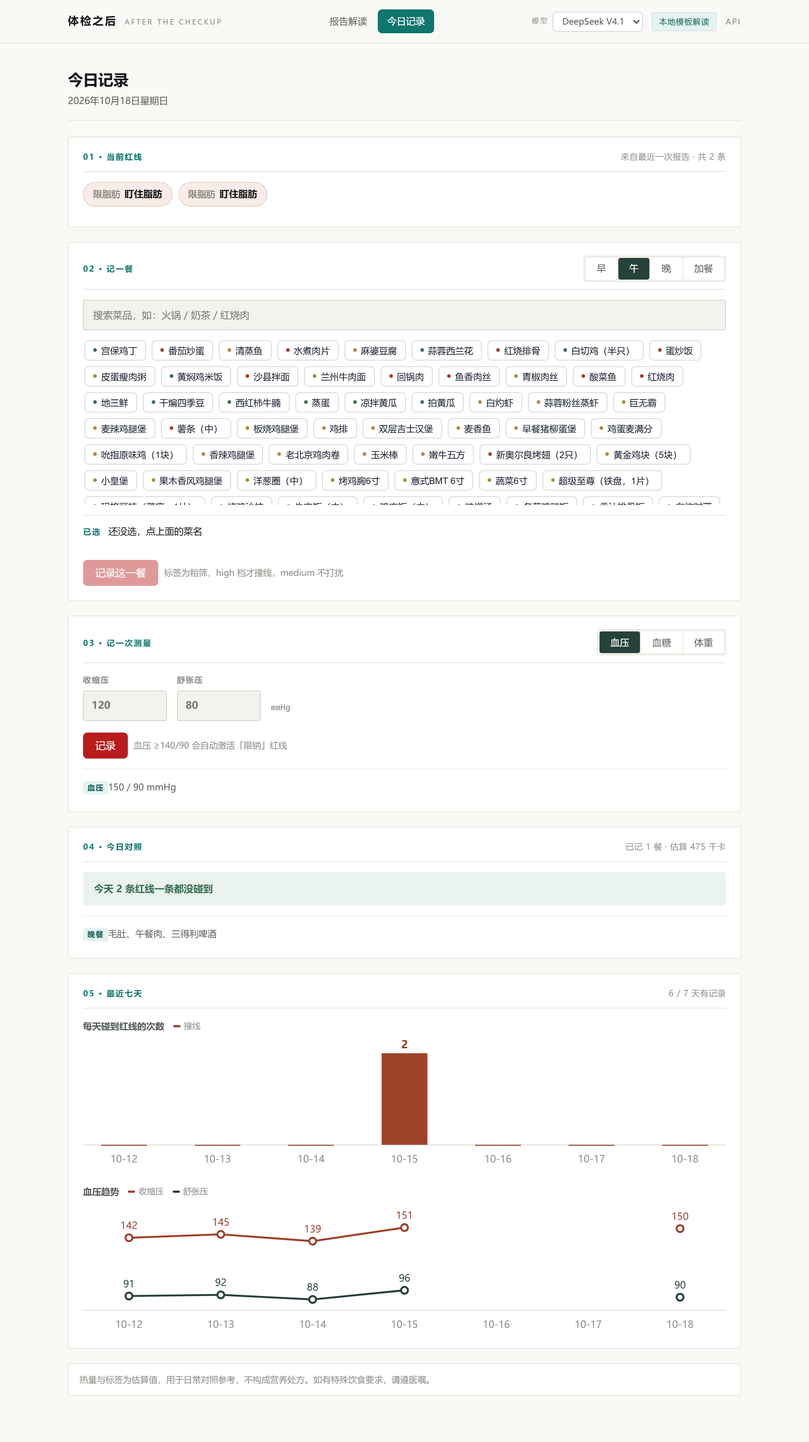
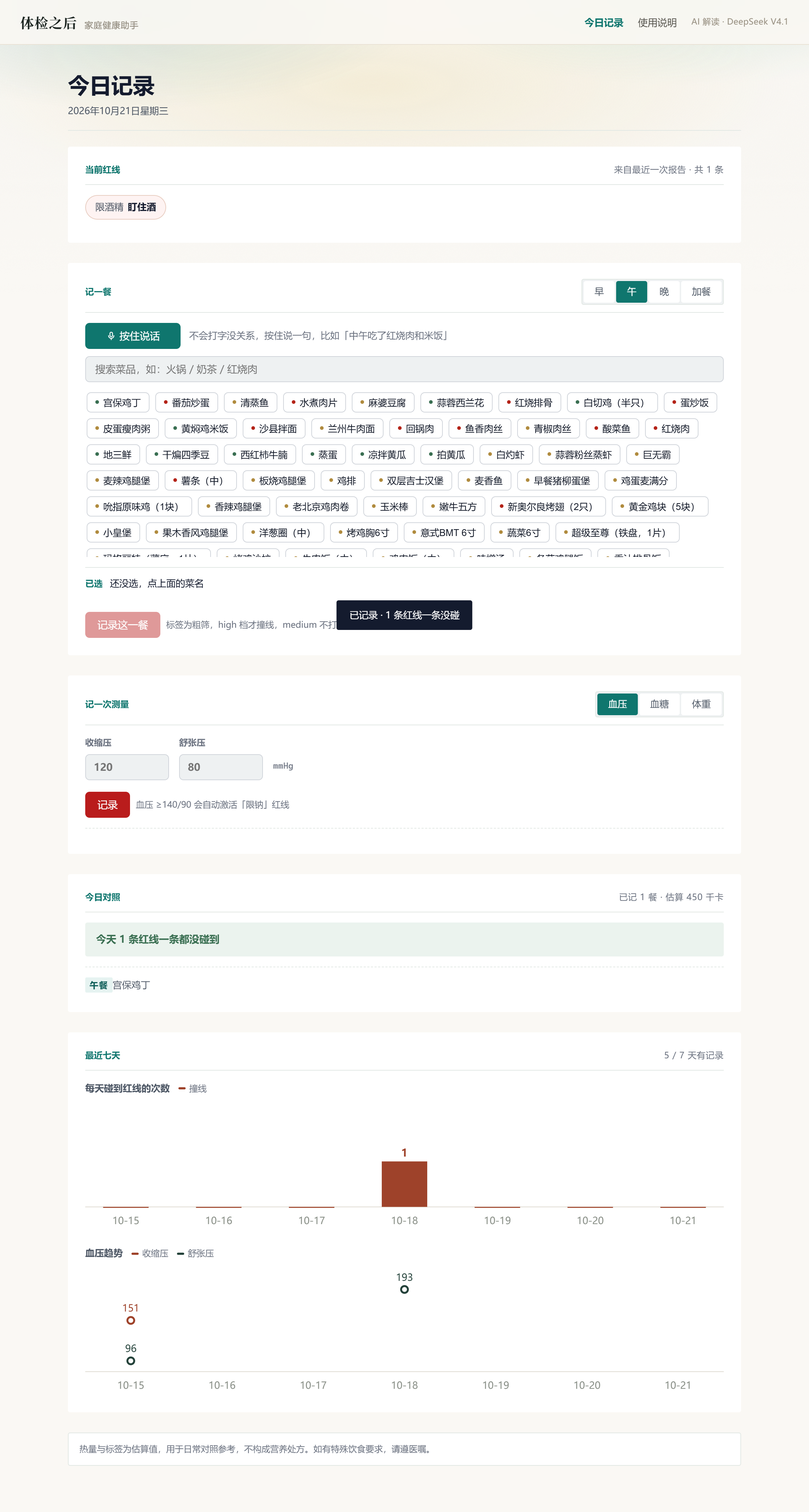
docs(repro): 修复README矛盾并验证干净环境复现
README 与真实实现有 7 处不一致，逐条修；另补 1 处会卡住评委的启动脚本、
1 处缺依赖。红线阈值、指标字典、判定逻辑一行未动。

一、事实错误（README）
  1. 顶部还写「Day 1 · 选题已定，尚未动工 / 本 README 是立项版」
     → 与已完成的三层架构直接冲突。改为当前状态（2026-10-21 全链路落地，
       距提交 28 天，剩余工作只有录视频）。
  2. 「明确不做」表里写「不做跨年多份报告对比」，但第七、九章和 app/history.py
     都写着已实现 → 删掉那行，改成诚实的边界：做了「新报告 vs 上一份」的两两对比
     （五种判定），没做跨多年批量统计、也不比原始数值（各单位/区间口径不同）。
  3. 「端到端验收链路」标 TODO(Day 15) → 改为已跑通，并列出三条对应的自动化验证
     （test_e2e 177 项 / real_bench 8 张图 / redline_bench 27 用例）。
  4. 互相打架的状态：功能表里「勾选菜品即时撞线」标 [ ]，但日常层早已上线
     → 改 [x]；「导出图片 / PDF」标 [ ]，但「保存成图片」已实现 → 拆成两行
     （图片 [x]、PDF [ ]）。
  5. 数字对不上：schemas 写「19 个模型」实测 17 个业务模型 + 1 个 _Strict 基类；
     test_rules 写「41 项断言」实际 54；红线写「10-15 条」实际 16；
     字典写「目标约 120」实际 80；菜品库写「目标 60-100」实际 316；提交数 36。
  6. 「5 份真实报告全部命中并触发红线」与 real_report.json 不符
     → 实为 6 份全部命中，其中 3 份触发红线。
  7. 项目结构树缺 chat.py / provider.py / env_loader.py / 四个新测试 / 新文档
     → 按实际文件重列；同时修掉「三大知识库库」错字（它把锚点链接写坏了）。
  另：截图说明声称「真实运行结果」，但三张图是 10-18 的旧界面（还挂着已删除的
  「模型」下拉框）→ 用当前界面重拍 home / result / daily（同尺寸 2240×1800）。

二、启动说明（原来只有开发者自己能用）
  · 四步启动里写死 D:/aconda3/envs/hwh_ml/python.exe → 改成 python / venv 写法，
    并说明「装依赖与启动必须用同一个 Python」这个最常见的坑。
  · 前置条件原来要求「一个 OCR 服务 Key」→ 与默认本地 RapidOCR 不符。
    改为：Python 3.11+ / 网络仅首次装依赖需要 / DeepSeek Key 可选 /
    OCR Key 不需要；一句话结论「没 Key 也能跑完整个流程」。
  · 3.3 环境坑里「OpenCV 中文路径」那条的对策（cv2.imencode）已不成立——
    本项目自己不碰 cv2 了。改成真实情况：坑还在（rapidocr 内部用 cv2），
    但上传走 tempfile 的 ASCII 名已经绕开；%TEMP% 含中文仍有风险且未实测。

三、启动脚本（会直接卡住评委，属最小修复）
[…]

diff --git a/README.md b/README.md
@@ -4,9 +4,11 @@
 
 > **体检只占一年中的一天，剩下 364 天才是这个产品的地盘。**
 
-> ⏳ **当前状态（Day 1 · 2026-10-15）：选题已定，尚未动工。**
-> 本 README 是立项版，主体内容是已锁定的技术决策与开发计划，**将随开发逐日替换为真实产出**。
-> 距省赛作品提交（2026-11-18）**34 天**。
+> ✅ **当前状态（2026-10-21）：三层架构全部落地，本机可跑通全链路。**
+> 档案层（报告 → OCR → 字典归一 → 本地判定 → 红线）、日常层（点选记餐 / 测量记录 →
+> 对照红线 → 周报）、表达层（默认模板模式，配 Key 自动升级大模型）均已上线；
+> 真实报告实测与红线逐条对照见 [docs/有效性证据.md](docs/有效性证据.md)。
+> 距省赛作品提交（2026-11-18）**28 天**，剩余工作只有演示视频录制与材料整理。
 
 ---
 
@@ -15,6 +17,7 @@
 | 你想做什么 | 去哪 |
 |---|---|
 | 10 分钟跑起来 | [第三章｜Quick Start](#三10-分钟跑起来) |
+| 查「你说的准不准」 | [docs/有效性证据.md](docs/有效性证据.md)（OCR 实测 + 红线逐条对照 + 复现命令 + 局限） |
 | 查评分维度的证据 | [第九章｜评审证据索引](#九评审证据索引) |
 | 看懂设计取舍 | [第五章｜架构](#五架构设计) + [第六章｜知识库](#六三大知识库) |
 
@@ -34,7 +37,8 @@
 
 ![今日记录](docs/screenshots/daily.png)
 
-> 截图为演示模式（`/api/demo` 现场合成的报告）的真实运行结果，非设计稿。
+> 截图为演示模式（`/api/demo` 现场合成的报告）的真实运行结果，非设计稿，
+> 2026-10-21 随当前界面重新截取。
 
 ```
 上传体检报告  →  抽出「你的三条红线」  →  每天勾一下吃了什么  →  今天碰了几条线
@@ -44,8 +48,8 @@
 |---|---|
 | 主界面：上传 + 解读结果（红线卡片 / 问诊清单 / 给爸妈的话） | `[x]` 已上线（见上方截图） |
 | 处理过程：七阶段进度 + 思考过程可视化 | `[x]` 已上线 |
-| 勾选菜品 → 即时显示碰了几条红线（动图） | `[ ]` 日常层开发后补 |
-| 演示视频（5-8 分钟） | `[ ]` 脚本已就位，见 `docs/演示视频脚本.md` |
+| 今日记录：勾选菜品 → 即时显示碰了几条红线 | `[x]` 已上线（每日对照 + 周报，见第三张截图） |
+| 演示视频（5-8 分钟） | `[ ]` 未录制，脚本已就位：`docs/演示视频脚本.md` |
 
 ---
 
@@ -85,9 +89,20 @@
 | **不做药物推荐、不做补剂建议** | 医学合规红线，主动砍掉 |
 | 甲状腺相关指标不做饮食映射 | 碘的边界容易踩雷，直接转为问诊提示清单 |
 | 不做用户认证 | 本地单机场景，用一张 `members` 表 + 页面切换即可，无需账号体系 |
-| 不做跨年多份报告对比 | 日常数据本身就是高频趋势，不必等一年 |
+| 不做多份报告的批量趋势统计 | 只做「新报告 vs 上一份」的两两对比（五种判定），不做跨多年折线、不做均值/斜率之类的统计。原因见下 |
 
 > 把报告翻成人话的项目已经不少。**这个项目的工程诚实，体现在它知道在哪里停下来。**
+
+**关于「多份报告对比」的边界说明**（本节原先有一条「不做跨年对比」，
+后来做掉了，那一行已删除——留着会和第七、九章打架）：
+
+- **做了**：每次保存新报告时，与**上一份**就地对比，输出 好转 / 加重 / 持续异常 /
+  方向反转 / 新增 五种判定，全部本地计算，口径与红线一致（`app/history.py`）。
+  为什么是「就地对比」而不是「事后随时比」：保存的这一刻正好是「新报告已确认、
+  旧报告未被覆盖」的唯一时机，错过就要靠额外快照。
+- **没做**：跨多年、多份的批量趋势统计（折线、均值、斜率）；也不对比原始数值，
+  只对比判定结果——两次的参考区间可能来自不同医院、单位和印刷值，
+  直接比数值会得出错误结论。
 
 ---
 
@@ -95,39 +110,62 @@
 
 ### 3.1 前置条件
 
-- Windows + Git Bash
-- conda Python **3.11.15**（已实测）
-- 一个 DeepSeek API Key
-- 一个 OCR 服务 Key（选型评测后确定，见 [第六章](#六三大知识库)）
+| 项 | 要求 | 说明 |
+|---|---|---|
+| 系统 | Windows / macOS / Linux | Windows 有双击启动脚本，最省事 |
+| Python | **3.11+**（本项目在 3.11.15 实测） | 3.12 / 3.13 未实测，见 3.5 |
+| 网络 | **首次装依赖需要** | 装完之后 OCR（本地 RapidOCR）与判定全部离线可跑 |
+| 大模型 Key | **可选** | 不填就是模板模式，产品完整可用；填了自动升级为大模型模式 |
+| OCR Key | **不需要** | 默认用本地 RapidOCR（`rapidocr-onnxruntime`），零 Key、零联网 |
 
-### 3.2 四步启动
+> **一句话**：`pip install -r requirements.txt` + 双击 `启动.bat`，没有 Key 也能跑完整个流程。
 
-> **Windows 用户更省事的办法**：仓库根目录有个 **`启动.bat`**，**双击即可**——
-> 它会自动启动服务并打开浏览器，不用敲任何命令。要停止就直接关掉那个黑窗口。
->
-> 下面四步是手动方式，供 macOS / Linux 用户或有自定义需求时使用。
+### 3.2 启动（两种方式，任选其一）
+
+#### 方式 A：Windows 双击（最简单，推荐评委用这个）
+
+仓库根目录的 **`启动.bat`**，**双击即可**：自动找 Python、启动服务、
+等服务就绪后自动打开浏览器。要停止就直接关掉那个黑窗口。
+
+> 脚本会依次尝试：`%PY%` 环境变量（可选，指向你想用的 python.exe）→ `PATH` 里的 `python`。
+> 找不到 Python 时打印明确提示后 `pause`，不会一闪而过；
+> 找到了但缺依赖时，会**自动执行** `pip install -r requirements.txt` 再启动。
+> 用 conda / venv 的话，先 `conda activate 环境名`（或 `.venv\Scripts\activate`）再双击。
+
+#### 方式 B：命令行四步（macOS / Linux 或有自定义需求时）
 
 ```bash
 # 1. 克隆
 git clone https://github.com/hoanhkhai1hk-wq/chuanzhibei.git
 cd chuanzhibei
 
-# 2. 安装依赖
-D:/aconda3/envs/hwh_ml/python.exe -m pip install -r requirements.txt
+# 2. 建一个独立环境（推荐，避免装进系统 Python）
+python -m venv .venv
+source .venv/bin/activate          # Windows 用: .venv\Scripts\activate
 
-# 3. 配置环境变量
-copy .env.example .env          # Windows
-# cp .env.example .env          # macOS / Linux
-# 然后填入 DEEPSEEK_API_KEY
+# 3. 安装依赖
+pip install -r requirements.txt
 
 # 4. 启动
-D:/aconda3/envs/hwh_ml/python.exe -m uvicorn app.main:app --reload --port 8000
+python -m uvicorn app.main:app --port 8000
 ```
 
 打开 `http://127.0.0.1:8000`，交互 API 文档在 `/docs`。
 
-> ⚠ **为什么要写 Python 绝对路径**：本机存在多个 Python 环境（conda `hwh_ml`、`myenv`、托管 Python 3.13），
-> 直接写 `python` 极易装到空环境里。**请按你的实际环境路径替换。**
+> **不想建 venv** 就直接把第 2 步的 `python` 换成你自己的解释器路径，例如
+> `D:/aconda3/envs/你的环境/python.exe -m pip install -r requirements.txt`。
+> 只要求「装依赖」和「启动服务」用的是**同一个** Python——
+> 用 A 的 pip 装、用 B 的 python 跑，是最常见的一类「装完了却 import 不到」。
+
+#### 想接大模型（可选）
+
+```bash
+cp .env.example .env        # Windows: copy .env.example .env
+# 然后在 .env 里填 DEEPSEEK_API_KEY
+```
+
+不填也能跑：模板模式下逐项解释来自字典的 `explain_high/low` 字段，
+问诊清单与「给爸妈说的话」由本地规则生成。界面上会如实显示「本地模板解读」。
 
 ### 3.3 本机环境坑（已实测，复现时先看这里）
 
@@ -135,37 +173,50 @@ D:/aconda3/envs/hwh_ml/python.exe -m uvicorn app.main:app --reload --port 8000
 |---|---|
 | 本机有 HTTP 代理，访问 127.0.0.1 会被拦截返回 502 | `curl` 必须加 `--noproxy '*'`；浏览器给 localhost 加代理例外 |
 | 用 `&` 起的后台进程会被回收 | 长驻服务需用后台任务方式运行，不要用 `&` |
-| OpenCV 不支持中文路径且**静默失败** | 写盘改用 `cv2.imencode` + Python `open(path,'wb')` |
+| 中文路径 + OpenCV | 本项目自己的读写走 `pathlib` + `PIL`，不碰 OpenCV；但默认 OCR 引擎 rapidocr 内部用 `cv2` 读图，而 `cv2.imread` 对中文路径**静默返回 None**。上传的临时文件由 `tempfile` 生成 ASCII 名，已绕开这个坑；若系统 `%TEMP%` 目录本身含中文，仍有风险（**未实测**） |
 
-### 3.4 端到端验收链路
+### 3.4 端到端验收链路（已跑通，非 TODO）
 
-`[ ]` **TODO(Day 15)** —— 这条链路同时也是「端到端丑链路」的验收标准，Day 1 先把标准钉死：
+`[x]` 已在 2026-10-21 用**干净环境复现**（全新 clone + 独立 Python 3.11 venv +
+无 Key 模板模式），完整走通下面这条链路：
 
 ```
 上传一份体检报告 → 取回异常项 JSON  → 生成「你的三条红线」
                 → 记一顿饭（勾选菜品）→ 取回今日「碰了几条红线」
 ```
 
+对应的自动化验证：
+
+| 验证 | 命令 | 规模 |
+|---|---|---|
+| 端到端链路（图 → OCR → 判定 → 红线） | `python tests/test_e2e.py` | 12 份合成样本 / 177 项断言 |
+| 真实报告实测 | `python tests/real_bench.py` | 8 张真实图 / 命中 61-66 行 = 92% |
+| 16 条红线规则逐条对照 | `python tests/redline_bench.py` | 27 条用例 / 293 项断言 |
+
+明细与口径见 [docs/有效性证据.md](docs/有效性证据.md)。
+
 ### 3.5 当前已完成的部分
 
 - `[x]` 选题与技术栈已锁定
 - `[x]` Python 环境与依赖清单已实测核验（见 `requirements.txt`）
-- `[x]` `app/schemas.py` 数据契约已落地：19 个模型，已通过导入验证与架构铁律自检
+- `[x]` `app/schemas.py` 数据契约已落地：17 个业务模型（另有 1 个 `_Strict` 基类
+  统一开启 `extra="forbid"`），已通过导入验证与架构铁律自检
 - `[x]` FastAPI 骨架可启动：`/health`、`/docs`、`/api/contract/sample` 已实测可用
 - `[x]` 指标字典 **80** 条 + 红线规则 16 条，含交叉引用校验
 - `[x]` **端到端链路已跑通**：图片 → OCR → 脱敏 → 解析 → 本地判定 → 红线
   （12 份合成样本验证，字典命中率 100%，触发 12 条红线）
 - `[x]` **真实报告实测已完成**：8 张真实报告图跑完整链路。
   首轮命中率只有 **15%**（合成样本的 100% 是开卷考试），定位到五个真实版式问题
-  并逐个修复后升到 **92%**，判定可用率 100%；其中 5 份真实报告的指标行
-  **全部命中、全部可判定，并实际触发日常红线**。
+  并逐个修复后升到 **92%**，判定可用率 100%；其中 6 份真实报告的指标行
+  **全部命中、全部可判定**，这 6 份里有 3 份实际触发了日常红线。
   最大的一个坑是照片方向——曾被误诊为"双栏排版跨栏读取"，
   实为旋转后 OCR 串不成行（详见文档第二节的误诊记录）。
 - `[x]` **定性指标判定修复**：「阴性（-）」——中国检验报告上最常见的定性写法——
   此前会被判成「待确认」，而「阳性（+）」却能正确识别（两边不对称）。
   现按括号内的符号优先判定，并支持半定量写法（尿蛋白 `2+`、`±`）。
   完整过程、数据表与仍未解决的短板见
-  [tests/ocr_bench/results/真实样本实测.md](docs/真实样本实测.md)
+  [docs/真实样本实测.md](docs/真实样本实测.md)（逐文件明细与统计口径另见
+  [docs/有效性证据.md](docs/有效性证据.md)）。
 - `[x]` **表达层已落地（模板模式）**：无 API Key 也完整可用——逐项解释来自指标
   字典的 `explain_high/low` 字段，问诊清单与「给爸妈说的话」由本地规则生成。
   配置 `DEEPSEEK_API_KEY` 后自动升级为大模型模式，输出须经**数字回溯校验**
@@ -203,10 +254,12 @@ D:/aconda3/envs/hwh_ml/python.exe -m uvicorn app.main:app --reload --port 8000
 .
 ├── app/
 │   ├── main.py              # [x] FastAPI 入口：extract → analyze → explain 三段式 + SSE 流式
-│   ├── schemas.py           # [x] Pydantic 数据契约（含 is_likely_normal / disclaimer）
+│   ├── schemas.py           # [x] Pydantic 数据契约（17 个业务模型 + _Strict 基类）
 │   ├── pipeline.py          # [x] 端到端链路：图片 → 脱敏 → 解析 → 红线
+│   ├── history.py           # [x] 多报告趋势对比（好转/加重/持续/反转/新增）
+│   ├── env_loader.py        # [x] 把 .env 灌进 os.environ（只补不盖，缺文件不报错）
 │   ├── ocr/
-│   │   ├── engine.py        # [x] OCR 适配层（rapidocr 默认，可换 paddle / baidu）
+│   │   ├── engine.py        # [x] OCR 适配层（rapidocr 默认；paddle / baidu 可选）
 │   │   └── parser.py        # [x] 文本 → 四元组
 │   ├── dict/
 │   │   ├── markers.json     # [x] 指标字典 80 条（血常规/肝肾/血脂/电解质/甲功/尿常规/心肌酶）
@@ -218,26 +271,38 @@ D:/aconda3/envs/hwh_ml/python.exe -m uvicorn app.main:app --reload --port 8000
 │   │   └── engine.py        # [x] 本地判定引擎（不调用大模型）
 │   ├── daily/
 │   │   └── service.py       # [x] 日常层：点选菜品 → 本地累加 → 红线撞线
-│   ├── history.py           # [x] 多报告趋势对比（好转/加重/持续/反转/新增）
 │   ├── data/
 │   │   └── db.py            # [x] SQLite 落库（stdlib，WAL，零 ORM）
 │   └── llm/
-│       └── explainer.py     # [x] 表达层：模板模式（无 Key 可用）+ 大模型模式 + 数字回溯校验
+│       ├── provider.py      # [x] 唯一模型出口 call_llm + 异常归类 + 超时
+│       ├── explainer.py     # [x] 模板模式 + 大模型模式 + 数字回溯校验 + 降级
+│       └── chat.py          # [x] 问问 AI：本地事实清单前置 + 同一个校验器
 ├── static/
 │   ├── index.html           # [x] 前端单页（零构建、零 CDN）
-│   ├── style.css            # [x] 设计系统
+│   ├── style.css            # [x] 设计系统（--btn-h / --btn-r / --btn-gap 令牌）
 │   └── app.js               # [x] 阶段进度 + SSE 流式渲染 + 今日记录 Tab
 ├── data/                    # SQLite 单文件（已 gitignore：健康数据不入 git）
 ├── docs/
-│   └── prompt-log/          # ≥3 段核心 Prompt 链快照
-├── 参考数据/                 # MIT 种子表（见第十一章）
+│   ├── 有效性证据.md         # [x] OCR 实测 + 红线逐条对照 + 复现命令 + 局限
+│   ├── 真实样本实测.md       # [x] 15% → 92% 的完整过程（含一次误诊记录）
+│   ├── 演示视频脚本.md       # [x] 12 段分镜（视频未录制）
+│   ├── 真实体检单怎么用.md   # [x] 拿到一份真实报告该怎么核对
+│   └── prompt-log/          # [x] 3 段核心 Prompt 链快照
+├── 参考数据/                 # [x] MIT 种子表（见第十一章）
+├── 启动.bat                  # [x] Windows 双击启动（自动找 Python）
 └── tests/
-    ├── test_rules.py        # [x] 规则引擎 41 项断言
+    ├── test_rules.py        # [x] 规则引擎 54 项断言
     ├── test_e2e.py          # [x] 端到端 177 项断言（12 份合成样本）
     ├── test_llm.py          # [x] 表达层 33 项断言（含幻觉抓取验证）
     ├── test_daily.py        # [x] 日常层 20 项断言（撞线方向 / medium 不打扰）
     ├── test_history.py      # [x] 多报告对比 20 项断言（五种判定 + 路径防回归）
     ├── test_week.py         # [x] 周报与测量 28 项断言（血压阈值 / 红线激活）
+    ├── test_chat.py         # [x] 问问 AI 53 项断言
+    ├── test_provider.py     # [x] 模型出口 43 项断言（回退 / 超时 / 异常归类）
+    ├── test_degrade.py      # [x] 降级链路 134 项断言（断网 / 401 / 429 / 编数字）
+    ├── redline_bench.py     # [x] 红线逐条对照 27 条用例 / 293 项断言
+    ├── redline_cases.json   # [x] 上述对照的机器可读用例
+    ├── real_bench.py        # [x] 真实报告实测（8 张公开渠道图）
     └── ocr_bench/           # [x] OCR 选型评测 + 合成报告生成器
 ```
 
@@ -319,11 +384,11 @@ D:/aconda3/envs/hwh_ml/python.exe -m uvicorn app.main:app --reload --port 8000
 
 ---
 
-## 六、三大知识库库
+## 六、三大知识库
 
 项目真实的技术含量在这里，而不在代码行数上。
 
-### 6.1 指标字典（目标约 120 项）
+### 6.1 指标字典（当前 **80** 条，目标约 120 项）
 
 字段：标准名 / 中文别名 / 单位 / 成人参考区间 / 解读模板 / **红线映射列（自建）**
 
@@ -331,7 +396,7 @@ D:/aconda3/envs/hwh_ml/python.exe -m uvicorn app.main:app --reload --port 8000
 - 需要补：中文别名（`WBC` → 白细胞计数）、性别分层、中国医院常见单位
 - **兜底原则**：以真实体检报告上的印刷区间为准，种子表只用于别名映射与缺项兜底
 
-### 6.2 红线映射规则（10-15 条，完全自研）
+### 6.2 红线映射规则（当前 **16** 条，完全自研）
 
 这部分没有现成来源，是本项目最主要的原创资产：
 
@@ -347,7 +412,7 @@ D:/aconda3/envs/hwh_ml/python.exe -m uvicorn app.main:app --reload --port 8000
 
 > 甲状腺相关不做映射——碘的边界难以安全把控，直接转为问诊提示。
 
-### 6.3 菜品库（目标 60-100 道）
+### 6.3 菜品库（当前 **316** 条，目标 60-100 道已超额完成）
 
 字段：热量 + **钠 / 糖 / 嘌呤 / 脂肪** 四档标签
 
@@ -370,12 +435,14 @@ D:/aconda3/envs/hwh_ml/python.exe -m uvicorn app.main:app --reload --port 8000
 | P0 | 今日提示 + 一周周报曲线 | `[x]` 撞线柱图 + 血压折线 |
 | P1 | 血压 / 血糖记录（复用同一数据结构） | `[x]` 录入 + 血压自动激活限钠红线 |
 | P1 | 指标卡片（正常区间条 + 你的位置标记） | `[ ]` |
-| P1 | 导出图片 / PDF | `[ ]` |
-| P0 | **跨年多份报告趋势对比** | `[x]` 保存时自动对比，五种判定口径 |
+| P1 | 导出图片 | `[x]` 「保存成图片」按 750px 宽导出 PNG（`canvas.toBlob`，零依赖） |
+| P1 | 导出 PDF | `[ ]` 未做，只有图片导出 |
+| P0 | **多份报告趋势对比**（与上一份两两对比） | `[x]` 保存时自动对比，五种判定口径 |
 | P0 | **就着报告提问（问问 AI）** | `[x]` `/api/chat`，模板模式也可用，数字回溯校验 + 失败重写 |
 | P1 | **多模型切换**（DeepSeek 已接通，通义千问 / Kimi 已预留） | `[x]` `call_llm` 唯一出口，未接通模型自动回落并提示 |
 | P2 | 拍照识别菜品（识别失败自动退回点选） | `[ ]` |
 | P2 | 家人档案（`members` 表切换，无账号） | `[ ]` |
+| —— | **可复现的有效性证据**（不是功能，是佐证） | `[x]` OCR 92%/100%、16 条红线逐条对照 27 用例全过，见 [docs/有效性证据.md](docs/有效性证据.md) |
 
 ### 为什么主输入是「点选」而不是「拍照」
 
@@ -393,7 +460,7 @@ D:/aconda3/envs/hwh_ml/python.exe -m uvicorn app.main:app --reload --port 8000
 
 - 采用 **Phase 制**：每个阶段一个 PR + 一次 merge + 一条完整 commit message
 - 关键 commit 标注 `Co-Authored-By`，AI 协同的记录直接留在提交历史里
-- 目标约 **20 次有意义的提交**，不凑数
+- 目标约 **20 次有意义的提交**，不凑数；截至目前实际 **36 次**（含 5 个阶段的主题提交）
 
 ### Prompt 链快照索引
 
@@ -447,7 +514,10 @@ Web 应用。本作品的目标群体为 25-45 岁子女与大学生本人，数
 
 ## 十、开发路线图
 
-Day 1 = 2026-10-15，共 34 天。
+Day 1 = 2026-10-15，计划共 34 天。
+
+> 下表是**立项时的计划**，保留下来作为过程记录；实际进度整体提前。
+> 真实完成状态以 [第七章](#七功能清单与实现状态) 与 [3.5 节](#35-当前已完成的部分) 为准。
 
 | 阶段 | 天 | 任务 |
 |---|---|---|
@@ -455,7 +525,7 @@ Day 1 = 2026-10-15，共 34 天。
 | **OCR 选型评测** | **3-5** | 用 10-15 份真实报告做字段级评测后选型（**框架已建**，见 `tests/ocr_bench/`） |
 | 指标字典 + 红线规则 | 6-9 | 约 120 项字典 + 10-15 条红线映射 |
 | 菜品库 | 10-12 | 60-100 道菜的四档标签 |
-| **端到端丑链路** | **13-15** | ✅ **已跑通**（12 份合成样本验证，界面仍待开发） |
+| **端到端丑链路** | **13-15** | ✅ 已跑通（12 份合成样本 + 8 张真实图；界面也已上线，见第七、九章） |
 | 大模型链路 | 16-19 | Prompt、结构化输出、数字回溯校验 |
 | 前端 | 20-24 | 上传、红线卡、饮食记录、周报 |
 | 亮点功能 | 25-28 | 给爸妈说的话、血压记录、导出 |
@@ -526,7 +596,9 @@ MIT License，见 `LICENSE` 文件。
 
 ## 十三、已知限制
 
-- OCR 对版式复杂的报告仍可能识别失败，届时提供手动校正入口
+- OCR 对版式复杂的报告仍可能识别失败（实测最差一份只解析出 2 行；尿检/乙肝版式
+  5 行只命中 1 行）。**当前没有手动校正界面**——这是尚未做的兜底，不做过度承诺：
+  现状是靠拍摄引导（`启动.bat` 启动的页面上有"支持拍照 / PDF"提示）与如实标注未识别项
 - 菜品库为抽样估算值，非称重实测
 - 参考区间仅为成人通用值，不支持儿童、孕期等特殊人群
 - 无多用户认证体系，设计为本地单机使用
